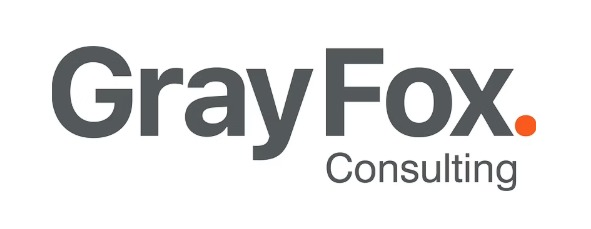
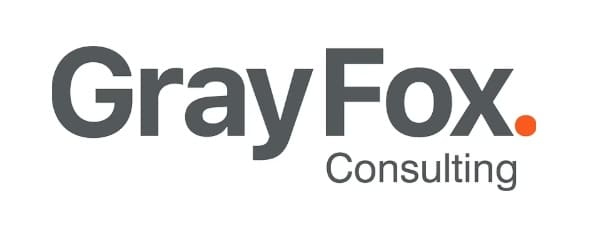
Optimize images and add SEO/social metadata (Phases 3 & 4)
Phase 3 - image performance:
- Resized and recompressed all 12 images based on their actual
  largest on-page display size (logos capped ~200px, timeline/project
  photos ~1200-1400px, hero photo ~900px), mozjpeg quality 78-80.
  images/ drops from 1.6MB to 577KB.
- Added explicit width/height to all 22 <img> tags (prevents layout
  shift as images load) and loading="lazy" to every image except the
  index.html hero photo, which stays eager as the page's LCP element.

Phase 4 - SEO and link-preview metadata:
- Added a favicon (16/32px + apple-touch-icon) using a simple on-brand
  navy monogram, since none existed on any page.
- Added canonical link, Open Graph, and Twitter Card tags to all 5
  pages using the live domain (aditya-abhyankar-portfolio-c3d9.vercel.app),
  so shared links render a title/description/image preview instead of
  a bare URL.
- Added robots.txt and sitemap.xml at the repo root.

Verified: all Phase 3/4 gates from the audit pass (byte-weight budget,
width/height/lazy coverage, metadata tag presence per page). Real-Chromium
screenshot and 23-modal click-through regression run separately to confirm
no visual/interaction regression from the image and markup changes.

Claude-Session: https://claude.ai/code/session_013YyvDAcCzza6vRi28TAxxk

diff --git a/experience.html b/experience.html
@@ -5,6 +5,20 @@
   <meta name="viewport" content="width=device-width, initial-scale=1.0">
   <title>Experience | Aditya Abhyankar - Project Manager & Engineer</title>
   <meta name="description" content="Professional experience spanning industrial construction, technical project management, ERP implementation, and IT service delivery across UK and India.">
+  <link rel="canonical" href="https://aditya-abhyankar-portfolio-c3d9.vercel.app/experience.html">
+  <link rel="icon" type="image/png" sizes="32x32" href="/favicon-32.png">
+  <link rel="icon" type="image/png" sizes="16x16" href="/favicon-16.png">
+  <link rel="apple-touch-icon" sizes="180x180" href="/apple-touch-icon.png">
+  <meta property="og:type" content="website">
+  <meta property="og:site_name" content="Aditya Abhyankar Portfolio">
+  <meta property="og:title" content="Experience | Aditya Abhyankar - Project Manager & Engineer">
+  <meta property="og:description" content="Professional experience spanning industrial construction, technical project management, ERP implementation, and IT service delivery across UK and India.">
+  <meta property="og:url" content="https://aditya-abhyankar-portfolio-c3d9.vercel.app/experience.html">
+  <meta property="og:image" content="https://aditya-abhyankar-portfolio-c3d9.vercel.app/images/1000103738.jpg">
+  <meta name="twitter:card" content="summary_large_image">
+  <meta name="twitter:title" content="Experience | Aditya Abhyankar - Project Manager & Engineer">
+  <meta name="twitter:description" content="Professional experience spanning industrial construction, technical project management, ERP implementation, and IT service delivery across UK and India.">
+  <meta name="twitter:image" content="https://aditya-abhyankar-portfolio-c3d9.vercel.app/images/1000103738.jpg">
   <link rel="preconnect" href="https://fonts.googleapis.com">
   <link rel="preconnect" href="https://fonts.gstatic.com" crossorigin>
   <link href="https://fonts.googleapis.com/css2?family=Inter:wght@400;500;600;700;800&display=swap" rel="stylesheet">
@@ -51,8 +65,8 @@
         <div class="timeline-item reveal-left">
           <div class="timeline-dot"></div>
           <div class="timeline-content" data-modal="modal-job-1">
-            <div class="timeline-logo"><img src="images/1000103726.jpg" alt="FABS Logo"></div>
-            <img src="images/1000103723.jpg" alt="Industrial Manufacturing Facility" class="timeline-img">
+            <div class="timeline-logo"><img src="images/1000103726.jpg" alt="FABS Logo" width="200" height="82" loading="lazy"></div>
+            <img src="images/1000103723.jpg" alt="Industrial Manufacturing Facility" class="timeline-img" width="1400" height="788" loading="lazy">
             <span class="timeline-date">October 2025 – Present</span>
             <h3 class="timeline-title">Project Planner / Planning Engineer</h3>
             <div class="timeline-company">Facilities And Building Solutions (FABS) – Client: PepsiCo India Holdings Pvt. Ltd.</div>
@@ -72,8 +86,8 @@
         <div class="timeline-item reveal-right">
           <div class="timeline-dot"></div>
           <div class="timeline-content" data-modal="modal-job-2">
-            <div class="timeline-logo"><img src="images/1000103730.jpg" alt="Revolution-ZERO Logo"></div>
-            <img src="images/1000103727.jpg" alt="Sterilization Plant Facility" class="timeline-img">
+            <div class="timeline-logo"><img src="images/1000103730.jpg" alt="Revolution-ZERO Logo" width="200" height="200" loading="lazy"></div>
+            <img src="images/1000103727.jpg" alt="Sterilization Plant Facility" class="timeline-img" width="850" height="481" loading="lazy">
             <span class="timeline-date">November 2024 – July 2025</span>
             <h3 class="timeline-title">Technical Project Manager</h3>
             <div class="timeline-company">Revolution-ZERO</div>
@@ -93,8 +107,8 @@
         <div class="timeline-item reveal-left">
           <div class="timeline-dot"></div>
           <div class="timeline-content" data-modal="modal-job-3">
-            <div class="timeline-logo"><img src="images/1000103724.jpg" alt="NHS Logo"></div>
-            <img src="images/1000103724.jpg" alt="Healthcare IT Environment" class="timeline-img">
+            <div class="timeline-logo"><img src="images/1000103724.jpg" alt="NHS Logo" width="225" height="225" loading="lazy"></div>
+            <img src="images/1000103724.jpg" alt="Healthcare IT Environment" class="timeline-img" width="225" height="225" loading="lazy">
             <span class="timeline-date">May 2023 – July 2023</span>
             <h3 class="timeline-title">IT Service Desk Analyst</h3>
             <div class="timeline-company">NHS Business Services Authority</div>
@@ -113,8 +127,8 @@
         <div class="timeline-item reveal-right">
           <div class="timeline-dot"></div>
           <div class="timeline-content" data-modal="modal-job-4">
-            <div class="timeline-logo"><img src="images/1000103767.jpg" alt="Gray Fox Consulting Logo"></div>
-            <img src="images/1000103767.jpg" alt="ERP Implementation Dashboard" class="timeline-img">
+            <div class="timeline-logo"><img src="images/1000103767.jpg" alt="Gray Fox Consulting Logo" width="591" height="229" loading="lazy"></div>
+            <img src="images/1000103767.jpg" alt="ERP Implementation Dashboard" class="timeline-img" width="591" height="229" loading="lazy">
             <span class="timeline-date">August 2022 – February 2023</span>
             <h3 class="timeline-title">Project Manager – ERP Implementation</h3>
             <div class="timeline-company">Gray Fox Consulting</div>
@@ -133,8 +147,8 @@
         <div class="timeline-item reveal-left">
           <div class="timeline-dot"></div>
           <div class="timeline-content" data-modal="modal-job-5">
-            <div class="timeline-logo"><img src="images/1000103722.jpg" alt="Northumbria University Logo"></div>
-            <img src="images/1000103732.jpg" alt="University Campus" class="timeline-img">
+            <div class="timeline-logo"><img src="images/1000103722.jpg" alt="Northumbria University Logo" width="200" height="63" loading="lazy"></div>
+            <img src="images/1000103732.jpg" alt="University Campus" class="timeline-img" width="600" height="400" loading="lazy">
             <span class="timeline-date">February 2022 – July 2023</span>
             <h3 class="timeline-title">Senior Student Inclusion Consultant</h3>
             <div class="timeline-company">Northumbria University</div>
@@ -211,7 +225,7 @@
         <button class="modal-close"><i class="fas fa-times"></i></button>
       </div>
       <div class="modal-body">
-        <img src="images/1000103723.jpg" alt="PepsiCo Facility">
+        <img src="images/1000103723.jpg" alt="PepsiCo Facility" width="1400" height="788" loading="lazy">
         <p><strong>Company:</strong> Facilities And Building Solutions (FABS) – Client: PepsiCo India Holdings Pvt. Ltd.<br>
         <strong>Location:</strong> Pune, India<br>
         <strong>Duration:</strong> October 2025 – Present</p>
@@ -245,7 +259,7 @@
         <button class="modal-close"><i class="fas fa-times"></i></button>
       </div>
       <div class="modal-body">
-        <img src="images/1000103733.jpg" alt="Sterilization Plant">
+        <img src="images/1000103733.jpg" alt="Sterilization Plant" width="1200" height="852" loading="lazy">
         <p><strong>Company:</strong> Revolution-ZERO<br>
         <strong>Location:</strong> Four Marks, Hampshire, UK<br>
         <strong>Duration:</strong> November 2024 – July 2025</p>
@@ -281,7 +295,7 @@
         <button class="modal-close"><i class="fas fa-times"></i></button>
       </div>
       <div class="modal-body">
-        <img src="images/1000103724.jpg" alt="NHS">
+        <img src="images/1000103724.jpg" alt="NHS" width="225" height="225" loading="lazy">
         <p><strong>Company:</strong> NHS Business Services Authority<br>
         <strong>Location:</strong> Newcastle upon Tyne, UK<br>
         <strong>Duration:</strong> May 2023 – July 2023</p>
@@ -311,7 +325,7 @@
         <button class="modal-close"><i class="fas fa-times"></i></button>
       </div>
       <div class="modal-body">
-        <img src="images/1000103767.jpg" alt="ERP">
+        <img src="images/1000103767.jpg" alt="ERP" width="591" height="229" loading="lazy">
         <p><strong>Company:</strong> Gray Fox Consulting<br>
         <strong>Location:</strong> Newcastle upon Tyne, UK<br>
         <strong>Duration:</strong> August 2022 – February 2023</p>
@@ -342,7 +356,7 @@
         <button class="modal-close"><i class="fas fa-times"></i></button>
       </div>
       <div class="modal-body">
-        <img src="images/1000103732.jpg" alt="University">
+        <img src="images/1000103732.jpg" alt="University" width="600" height="400" loading="lazy">
         <p><strong>Company:</strong> Northumbria University<br>
         <strong>Location:</strong> Newcastle upon Tyne, UK<br>
         <strong>Duration:</strong> February 2022 – July 2023</p>

diff --git a/projects.html b/projects.html
@@ -5,6 +5,20 @@
   <meta name="viewport" content="width=device-width, initial-scale=1.0">
   <title>Projects | Aditya Abhyankar - Interactive Dashboards</title>
   <meta name="description" content="Interactive project dashboards showcasing delivery metrics, budget performance, schedule adherence, and risk management outcomes.">
+  <link rel="canonical" href="https://aditya-abhyankar-portfolio-c3d9.vercel.app/projects.html">
+  <link rel="icon" type="image/png" sizes="32x32" href="/favicon-32.png">
+  <link rel="icon" type="image/png" sizes="16x16" href="/favicon-16.png">
+  <link rel="apple-touch-icon" sizes="180x180" href="/apple-touch-icon.png">
+  <meta property="og:type" content="website">
+  <meta property="og:site_name" content="Aditya Abhyankar Portfolio">
+  <meta property="og:title" content="Projects | Aditya Abhyankar - Interactive Dashboards">
+  <meta property="og:description" content="Interactive project dashboards showcasing delivery metrics, budget performance, schedule adherence, and risk management outcomes.">
+  <meta property="og:url" content="https://aditya-abhyankar-portfolio-c3d9.vercel.app/projects.html">
+  <meta property="og:image" content="https://aditya-abhyankar-portfolio-c3d9.vercel.app/images/1000103738.jpg">
+  <meta name="twitter:card" content="summary_large_image">
+  <meta name="twitter:title" content="Projects | Aditya Abhyankar - Interactive Dashboards">
+  <meta name="twitter:description" content="Interactive project dashboards showcasing delivery metrics, budget performance, schedule adherence, and risk management outcomes.">
+  <meta name="twitter:image" content="https://aditya-abhyankar-portfolio-c3d9.vercel.app/images/1000103738.jpg">
   <link rel="preconnect" href="https://fonts.googleapis.com">
   <link rel="preconnect" href="https://fonts.gstatic.com" crossorigin>
   <link href="https://fonts.googleapis.com/css2?family=Inter:wght@400;500;600;700;800&display=swap" rel="stylesheet">
@@ -51,7 +65,7 @@
         <!-- Project 1: PepsiCo -->
         <div class="project-card reveal stagger-1" data-modal="modal-project-1">
           <div class="project-img-wrapper">
-            <img src="images/1000103723.jpg" alt="PepsiCo Beverage Facility" class="project-img">
+            <img src="images/1000103723.jpg" alt="PepsiCo Beverage Facility" class="project-img" width="1400" height="788" loading="lazy">
           </div>
           <div class="project-header">
             <h3 class="project-title"><i class="fas fa-industry"></i> PepsiCo Beverage Facility</h3>
@@ -123,7 +137,7 @@
         <!-- Project 2: Revolution-ZERO -->
         <div class="project-card reveal stagger-2" data-modal="modal-project-2">
           <div class="project-img-wrapper">
-            <img src="images/1000103727.jpg" alt="Revolution-ZERO Sterilization Plant" class="project-img">
+            <img src="images/1000103727.jpg" alt="Revolution-ZERO Sterilization Plant" class="project-img" width="850" height="481" loading="lazy">
           </div>
           <div class="project-header">
             <h3 class="project-title"><i class="fas fa-flask"></i> UK Sterilization Plants</h3>
@@ -187,7 +201,7 @@
         <!-- Project 3: ERP Implementation -->
         <div class="project-card reveal stagger-3" data-modal="modal-project-3">
           <div class="project-img-wrapper">
-            <img src="images/1000103767.jpg" alt="ERP Implementation - Gray Fox Consulting" class="project-img">
+            <img src="images/1000103767.jpg" alt="ERP Implementation - Gray Fox Consulting" class="project-img" width="591" height="229" loading="lazy">
           </div>
           <div class="project-header">
             <h3 class="project-title"><i class="fas fa-laptop-code"></i> ERP Implementation</h3>
@@ -251,7 +265,7 @@
         <!-- Project 4: NHS Migration -->
         <div class="project-card reveal stagger-4" data-modal="modal-project-4">
           <div class="project-img-wrapper">
-            <img src="images/1000103724.jpg" alt="NHS Email Migration" class="project-img">
+            <img src="images/1000103724.jpg" alt="NHS Email Migration" class="project-img" width="225" height="225" loading="lazy">
           </div>
           <div class="project-header">
             <h3 class="project-title"><i class="fas fa-hospital"></i> NHS Email Migration</h3>
@@ -315,7 +329,7 @@
         <!-- Project 5: AI Risk Management -->
         <div class="project-card reveal stagger-5" data-modal="modal-project-5">
           <div class="project-img-wrapper">
-            <img src="images/1000103728.jpg" alt="AI Risk Management Research" class="project-img">
+            <img src="images/1000103728.jpg" alt="AI Risk Management Research" class="project-img" width="612" height="408" loading="lazy">
           </div>
           <div class="project-header">
             <h3 class="project-title"><i class="fas fa-brain"></i> AI in Risk Management</h3>
@@ -379,7 +393,7 @@
         <!-- Project 6: Diversity & Inclusion -->
         <div class="project-card reveal stagger-1" data-modal="modal-project-6">
           <div class="project-img-wrapper">
-            <img src="images/1000103731.jpg" alt="Diversity & Inclusion Initiatives" class="project-img">
+            <img src="images/1000103731.jpg" alt="Diversity & Inclusion Initiatives" class="project-img" width="1200" height="300" loading="lazy">
           </div>
           <div class="project-header">
             <h3 class="project-title"><i class="fas fa-users"></i> Diversity & Inclusion Initiatives</h3>

diff --git a/index.html b/index.html
@@ -5,6 +5,20 @@
   <meta name="viewport" content="width=device-width, initial-scale=1.0">
   <title>Aditya Abhyankar | Project Manager & Mechanical Engineer</title>
   <meta name="description" content="Results-driven Mechanical Engineer and Technical Project Manager with 8+ years experience delivering £90M+ projects across industrial construction, manufacturing, and sustainability.">
+  <link rel="canonical" href="https://aditya-abhyankar-portfolio-c3d9.vercel.app/">
+  <link rel="icon" type="image/png" sizes="32x32" href="/favicon-32.png">
+  <link rel="icon" type="image/png" sizes="16x16" href="/favicon-16.png">
+  <link rel="apple-touch-icon" sizes="180x180" href="/apple-touch-icon.png">
+  <meta property="og:type" content="website">
+  <meta property="og:site_name" content="Aditya Abhyankar Portfolio">
+  <meta property="og:title" content="Aditya Abhyankar | Project Manager & Mechanical Engineer">
+  <meta property="og:description" content="Results-driven Mechanical Engineer and Technical Project Manager with 8+ years experience delivering £90M+ projects across industrial construction, manufacturing, and sustainability.">
+  <meta property="og:url" content="https://aditya-abhyankar-portfolio-c3d9.vercel.app/">
+  <meta property="og:image" content="https://aditya-abhyankar-portfolio-c3d9.vercel.app/images/1000103738.jpg">
+  <meta name="twitter:card" content="summary_large_image">
+  <meta name="twitter:title" content="Aditya Abhyankar | Project Manager & Mechanical Engineer">
+  <meta name="twitter:description" content="Results-driven Mechanical Engineer and Technical Project Manager with 8+ years experience delivering £90M+ projects across industrial construction, manufacturing, and sustainability.">
+  <meta name="twitter:image" content="https://aditya-abhyankar-portfolio-c3d9.vercel.app/images/1000103738.jpg">
   <link rel="preconnect" href="https://fonts.googleapis.com">
   <link rel="preconnect" href="https://fonts.gstatic.com" crossorigin>
   <link href="https://fonts.googleapis.com/css2?family=Inter:wght@400;500;600;700;800&display=swap" rel="stylesheet">
@@ -77,7 +91,7 @@
         <div class="hero-visual">
           <div class="profile-card">
             <div class="profile-img-wrapper">
-              <img src="images/1000103738.jpg" alt="Aditya Abhyankar" class="profile-img">
+              <img src="images/1000103738.jpg" alt="Aditya Abhyankar" class="profile-img" width="675" height="900">
             </div>
             <div class="floating-badge badge-1">
               <div class="icon"><i class="fas fa-check-circle"></i></div>

diff --git a/skills.html b/skills.html
@@ -5,6 +5,20 @@
   <meta name="viewport" content="width=device-width, initial-scale=1.0">
   <title>Competencies | Aditya Abhyankar - Skills & Expertise</title>
   <meta name="description" content="Comprehensive technical and professional competencies spanning project planning, engineering tools, construction coordination, and stakeholder management.">
+  <link rel="canonical" href="https://aditya-abhyankar-portfolio-c3d9.vercel.app/skills.html">
+  <link rel="icon" type="image/png" sizes="32x32" href="/favicon-32.png">
+  <link rel="icon" type="image/png" sizes="16x16" href="/favicon-16.png">
+  <link rel="apple-touch-icon" sizes="180x180" href="/apple-touch-icon.png">
+  <meta property="og:type" content="website">
+  <meta property="og:site_name" content="Aditya Abhyankar Portfolio">
+  <meta property="og:title" content="Competencies | Aditya Abhyankar - Skills & Expertise">
+  <meta property="og:description" content="Comprehensive technical and professional competencies spanning project planning, engineering tools, construction coordination, and stakeholder management.">
+  <meta property="og:url" content="https://aditya-abhyankar-portfolio-c3d9.vercel.app/skills.html">
+  <meta property="og:image" content="https://aditya-abhyankar-portfolio-c3d9.vercel.app/images/1000103738.jpg">
+  <meta name="twitter:card" content="summary_large_image">
+  <meta name="twitter:title" content="Competencies | Aditya Abhyankar - Skills & Expertise">
+  <meta name="twitter:description" content="Comprehensive technical and professional competencies spanning project planning, engineering tools, construction coordination, and stakeholder management.">
+  <meta name="twitter:image" content="https://aditya-abhyankar-portfolio-c3d9.vercel.app/images/1000103738.jpg">
   <link rel="preconnect" href="https://fonts.googleapis.com">
   <link rel="preconnect" href="https://fonts.gstatic.com" crossorigin>
   <link href="https://fonts.googleapis.com/css2?family=Inter:wght@400;500;600;700;800&display=swap" rel="stylesheet">

diff --git a/contact.html b/contact.html
@@ -5,6 +5,20 @@
   <meta name="viewport" content="width=device-width, initial-scale=1.0">
   <title>Contact | Aditya Abhyankar - Let's Connect</title>
   <meta name="description" content="Get in touch with Aditya Abhyankar for project management, engineering, and technical leadership opportunities across UK and India.">
+  <link rel="canonical" href="https://aditya-abhyankar-portfolio-c3d9.vercel.app/contact.html">
+  <link rel="icon" type="image/png" sizes="32x32" href="/favicon-32.png">
+  <link rel="icon" type="image/png" sizes="16x16" href="/favicon-16.png">
+  <link rel="apple-touch-icon" sizes="180x180" href="/apple-touch-icon.png">
+  <meta property="og:type" content="website">
+  <meta property="og:site_name" content="Aditya Abhyankar Portfolio">
+  <meta property="og:title" content="Contact | Aditya Abhyankar - Let's Connect">
+  <meta property="og:description" content="Get in touch with Aditya Abhyankar for project management, engineering, and technical leadership opportunities across UK and India.">
+  <meta property="og:url" content="https://aditya-abhyankar-portfolio-c3d9.vercel.app/contact.html">
+  <meta property="og:image" content="https://aditya-abhyankar-portfolio-c3d9.vercel.app/images/1000103738.jpg">
+  <meta name="twitter:card" content="summary_large_image">
+  <meta name="twitter:title" content="Contact | Aditya Abhyankar - Let's Connect">
+  <meta name="twitter:description" content="Get in touch with Aditya Abhyankar for project management, engineering, and technical leadership opportunities across UK and India.">
+  <meta name="twitter:image" content="https://aditya-abhyankar-portfolio-c3d9.vercel.app/images/1000103738.jpg">
   <link rel="preconnect" href="https://fonts.googleapis.com">
   <link rel="preconnect" href="https://fonts.gstatic.com" crossorigin>
   <link href="https://fonts.googleapis.com/css2?family=Inter:wght@400;500;600;700;800&display=swap" rel="stylesheet">
